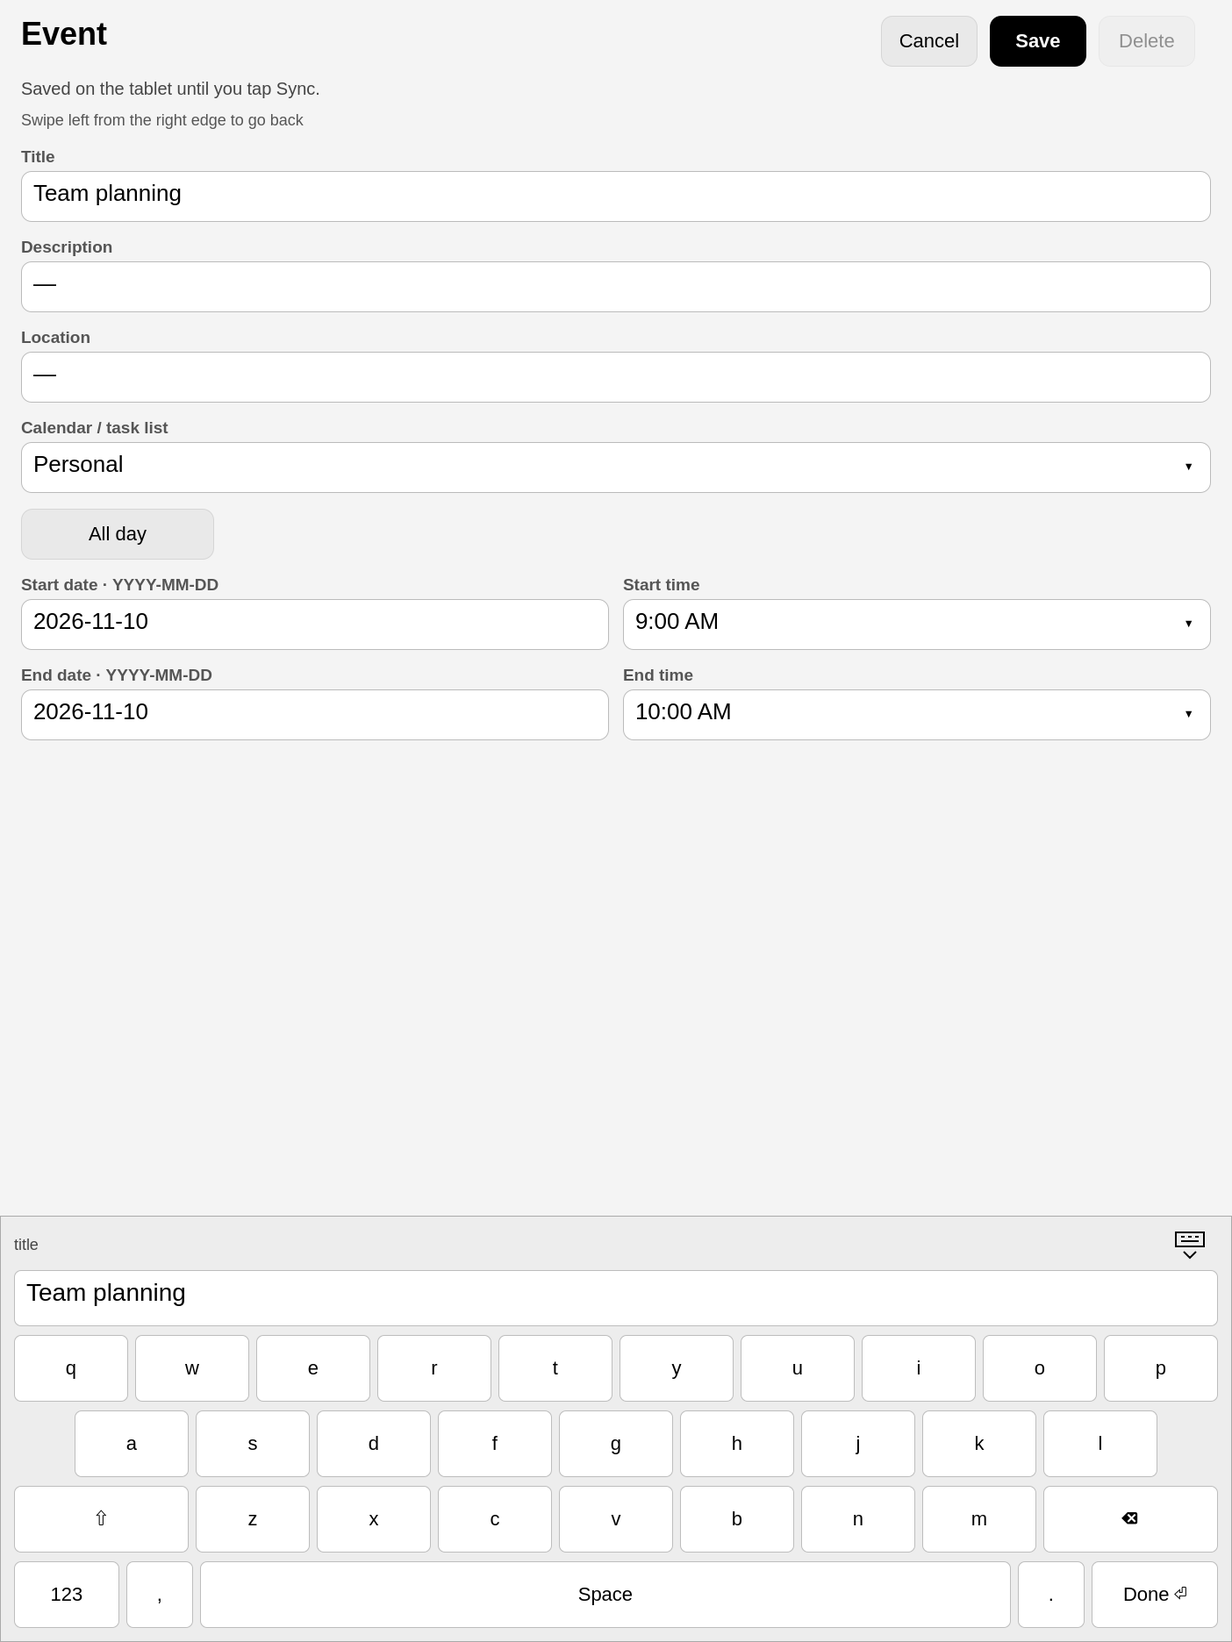
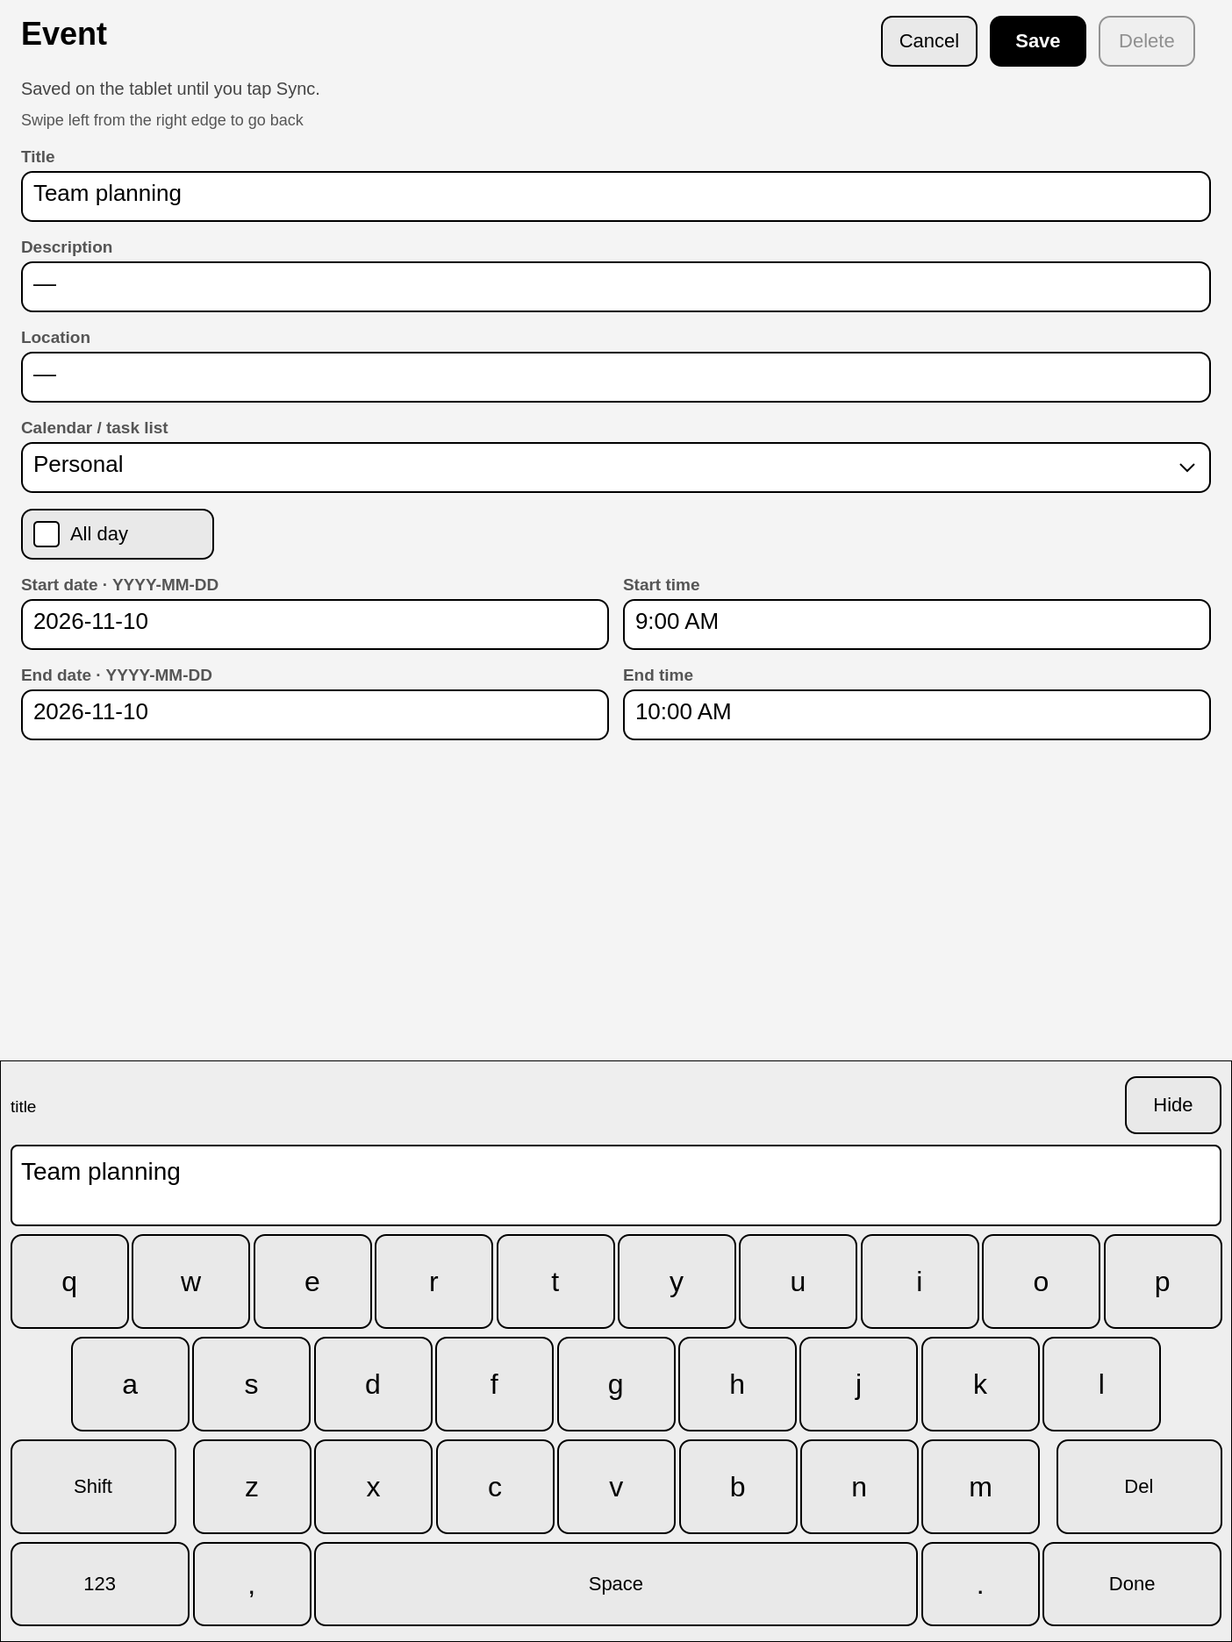
Fix tablet keyboard layout, date entry, and dismissal

diff --git a/qml/TouchKeyboard.qml b/qml/TouchKeyboard.qml
@@ -1,71 +1,58 @@
 // SPDX-License-Identifier: GPL-3.0-only
-// Copyright (C) 2026 remarkable2-nextcloudCalendar contributors
 import QtQuick
-
 Rectangle {
     id:keyboard
-    property string value: ""
-    property string label: ""
-    property bool secret: false
-    property bool shift: false
-    property bool symbols: false
-    property bool moreSymbols: false
-    readonly property real keyWidth:(width-32-9*8)/10
+    property string value:""
+    property string label:""
+    property bool secret:false
+    property bool shift:false
+    property bool symbols:false
+    property bool extraSymbols:false
+    readonly property real letterWidth:(width-24-9*4)/10
     signal edited(string value)
     signal done
-    width:parent.width;height:rows.height+32;color:"#ededed";border.color:"#aaaaaa"
-    function type(value) {
-        var position=input.selectionStart
-        if(input.selectionEnd>position){input.remove(position,input.selectionEnd);input.insert(position,value)}
-        else input.insert(input.cursorPosition,value)
-        edited(input.text)
-    }
-    function erase() {
-        if(input.selectionEnd>input.selectionStart)input.remove(input.selectionStart,input.selectionEnd)
-        else if(input.cursorPosition>0)input.remove(input.cursorPosition-1,input.cursorPosition)
-        edited(input.text)
-    }
-    component Key:Action {objectName:"key_"+label;height:76;radius:8;color:pressed?"#cccccc":"white";border.color:"#bdbdbd"}
+    width:parent.width;height:rows.height+36;color:"#eeeeee";border.color:"black"
+    function type(value){var position=input.selectionStart;if(input.selectionEnd>position){input.remove(position,input.selectionEnd);input.insert(position,value)}else input.insert(input.cursorPosition,value);edited(input.text)}
+    function erase(){if(input.selectionEnd>input.selectionStart)input.remove(input.selectionStart,input.selectionEnd);else if(input.cursorPosition>0)input.remove(input.cursorPosition-1,input.cursorPosition);edited(input.text)}
+    onVisibleChanged:if(visible&&Qt.inputMethod)Qt.inputMethod.hide()
     MouseArea {anchors.fill:parent}
     Column {
-        id:rows;x:16;y:16;width:parent.width-32;spacing:10
-        Item {
-            width:parent.width;height:36
-            Text {anchors.verticalCenter:parent.verticalCenter;text:keyboard.label;font.pixelSize:18;color:"#444444"}
-            Item {
-                objectName:"hideKeyboardButton";anchors.right:parent.right;width:64;height:36
-                Canvas {
-                    anchors.centerIn:parent;width:40;height:34
-                    onPaint:{var c=getContext("2d");c.reset();c.strokeStyle="black";c.lineWidth=2;c.beginPath();c.rect(4,2,32,16);c.moveTo(10,7);c.lineTo(14,7);c.moveTo(18,7);c.lineTo(22,7);c.moveTo(26,7);c.lineTo(30,7);c.moveTo(10,12);c.lineTo(30,12);c.moveTo(13,24);c.lineTo(20,31);c.lineTo(27,24);c.stroke()}
-                }
-                MouseArea {anchors.fill:parent;onClicked:keyboard.done()}
+        id:rows;x:12;y:18;width:parent.width-24;spacing:9
+        Item {width:parent.width;height:69
+            Text {anchors.verticalCenter:parent.verticalCenter;width:parent.width-340;text:keyboard.label;font.pixelSize:19;color:"black";elide:Text.ElideRight}
+            Row {anchors.right:parent.right;spacing:8
+                Action {objectName:"hideKeyboardButton";width:110;height:66;label:"Hide";onTriggered:keyboard.done()}
             }
         }
-        Rectangle {width:parent.width;height:64;radius:8;color:"white";border.color:"#bdbdbd"
-            TextInput {id:input;objectName:"keyboardInput";x:14;y:10;width:parent.width-28;height:44;font.pixelSize:28;clip:true;selectByMouse:true;text:keyboard.value;echoMode:keyboard.secret?TextInput.Password:TextInput.Normal;onTextEdited:keyboard.edited(text)}
+        Rectangle {width:parent.width;height:93;radius:8;color:"white";border.color:"black";border.width:2
+            TextInput {id:input;objectName:"keyboardInput";x:12;y:15;width:parent.width-24;height:63;font.pixelSize:28;clip:true;selectByMouse:true;activeFocusOnPress:false;text:keyboard.value;echoMode:keyboard.secret?TextInput.Password:TextInput.Normal;onTextEdited:keyboard.edited(text);onActiveFocusChanged:if(activeFocus&&Qt.inputMethod)Qt.inputMethod.hide()}
         }
         Repeater {
-            model:keyboard.symbols?(keyboard.moreSymbols?["[]{}#%^*+=","_\\|~<>€£¥"]:["1234567890","-/:;()$&@"]):["qwertyuiop","asdfghjkl"]
-            delegate:Row {
+            model:keyboard.symbols?(keyboard.extraSymbols?["[]{}#%^*+=","_\\|~<>€£¥",".,?!'\":"]:["1234567890","@#$%&-+()","*\"':;!?"]):["qwertyuiop","asdfghjkl","zxcvbnm"]
+            delegate:Item {
                 required property string modelData
-                property string keys:modelData
-                x:(rows.width-(keys.length*keyboard.keyWidth+(keys.length-1)*8))/2
-                spacing:8
-                Repeater {model:parent.keys.length;delegate:Key {required property int index;property string key:parent.keys.charAt(index);width:keyboard.keyWidth;label:keyboard.shift?key.toUpperCase():key;onTriggered:keyboard.type(label)}}
+                required property int index
+                width:rows.width;height:108
+                Row {
+                    anchors.horizontalCenter:parent.horizontalCenter;spacing:4
+                    Repeater {model:parent.parent.modelData.length;delegate:Action {
+                        required property int index
+                        property string key:parent.parent.modelData.charAt(index)
+                        objectName:"key_"+label;width:keyboard.letterWidth;height:108;fontSize:32
+                        label:!keyboard.symbols&&keyboard.shift?key.toUpperCase():key
+                        onTriggered:keyboard.type(label)
+                    }}
+                }
+                Action {objectName:"shiftKey";visible:index===2;anchors.left:parent.left;width:keyboard.letterWidth*1.4;height:108;label:keyboard.symbols?(keyboard.extraSymbols?"123":"#+="):(keyboard.shift?"SHIFT":"Shift");selected:!keyboard.symbols&&keyboard.shift;onTriggered:{if(keyboard.symbols)keyboard.extraSymbols=!keyboard.extraSymbols;else keyboard.shift=!keyboard.shift}}
+                Action {objectName:"deleteKey";visible:index===2;anchors.right:parent.right;width:keyboard.letterWidth*1.4;height:108;label:"Del";onTriggered:keyboard.erase()}
             }
         }
-        Row {
-            width:parent.width;spacing:8
-            Key {width:(rows.width-7*keyboard.keyWidth-8*8)/2;label:keyboard.symbols?(keyboard.moreSymbols?"123":"#+="):(keyboard.shift?"⇧ ON":"⇧");onTriggered:{if(keyboard.symbols)keyboard.moreSymbols=!keyboard.moreSymbols;else keyboard.shift=!keyboard.shift}}
-            Repeater {model:keyboard.symbols?[".",",","?","!","'","\"","="]:["z","x","c","v","b","n","m"];delegate:Key {required property string modelData;width:keyboard.keyWidth;label:keyboard.shift?modelData.toUpperCase():modelData;onTriggered:keyboard.type(label)}}
-            Key {width:(rows.width-7*keyboard.keyWidth-8*8)/2;label:"⌫";onTriggered:keyboard.erase()}
-        }
-        Row {width:parent.width;spacing:8
-            Key {width:120;label:keyboard.symbols?"ABC":"123";onTriggered:keyboard.symbols=!keyboard.symbols}
-            Key {width:76;label:",";onTriggered:keyboard.type(",")}
-            Key {width:Math.max(110,rows.width-448);label:"Space";onTriggered:keyboard.type(" ")}
-            Key {width:76;label:".";onTriggered:keyboard.type(".")}
-            Key {width:144;label:"Done ⏎";onTriggered:keyboard.done()}
+        Row {spacing:4
+            Action {objectName:"symbolModeButton";width:keyboard.letterWidth*1.5+2;height:96;label:keyboard.symbols?"ABC":"123";onTriggered:{keyboard.symbols=!keyboard.symbols;keyboard.extraSymbols=false}}
+            Action {width:keyboard.letterWidth;height:96;fontSize:32;label:",";onTriggered:keyboard.type(",")}
+            Action {objectName:"spaceKey";width:keyboard.letterWidth*5+16;height:96;label:"Space";onTriggered:keyboard.type(" ")}
+            Action {width:keyboard.letterWidth;height:96;fontSize:32;label:".";onTriggered:keyboard.type(".")}
+            Action {objectName:"doneKey";width:keyboard.letterWidth*1.5+2;height:96;label:"Done";onTriggered:keyboard.done()}
         }
     }
 }

diff --git a/qml/EditorView.qml b/qml/EditorView.qml
@@ -29,7 +29,7 @@ Rectangle {
                 width:form.width;label:modelData.charAt(0).toUpperCase()+modelData.slice(1);value:page.draft?page.draft[modelData]:"";editable:page.draft&&page.draft.writable;onActivated:app.field=modelData
             }}
             Field {id:calendar;objectName:"calendarDropdown";width:form.width;label:"Calendar / task list";value:page.draft?page.draft.calendar_name:"";dropdown:page.draft&&page.draft.id==="";editable:page.draft&&page.draft.id==="";onActivated:app.chooseCalendar(calendar)}
-            Action {visible:page.draft&&page.draft.kind==="VEVENT";width:220;label:page.draft&&page.draft.all_day?"✓ All day":"All day";enabled:page.draft&&page.draft.writable;onTriggered:{var all=!page.draft.all_day;app.setField("all_day",all);app.setField("start",all?page.draft.start.slice(0,10):page.draft.start.slice(0,10)+"T09:00");app.setField("end",all?app.iso(app.add(app.date(page.draft.start),1)):page.draft.start.slice(0,10)+"T10:00")}}
+            Action {visible:page.draft&&page.draft.kind==="VEVENT";width:220;checkable:true;checked:page.draft&&page.draft.all_day;label:"All day";enabled:page.draft&&page.draft.writable;onTriggered:{var all=!page.draft.all_day;app.setField("all_day",all);app.setField("start",all?page.draft.start.slice(0,10):page.draft.start.slice(0,10)+"T09:00");app.setField("end",all?app.iso(app.add(app.date(page.draft.start),1)):page.draft.start.slice(0,10)+"T10:00")}}
             Repeater {model:page.draft&&page.draft.kind==="VEVENT"?["start","end"]:[];delegate:Row {
                 required property string modelData
                 width:form.width;spacing:16
@@ -41,7 +41,7 @@ Rectangle {
                 width:form.width;label:(modelData==="scheduled"?"Scheduled for":"Due by")+" · YYYY-MM-DD or YYYY-MM-DDTHH:MM (24h)";value:page.draft?page.draft[modelData]||"":"";editable:page.draft&&page.draft.writable;onActivated:app.field=modelData
             }}
             Field {id:priority;visible:page.draft&&page.draft.kind==="VTODO";width:form.width;label:"Priority";value:page.draft?app.priorityLabel(page.draft.priority):"None";dropdown:true;editable:page.draft&&page.draft.writable;onActivated:app.choosePriority(priority)}
-            Action {visible:page.draft&&page.draft.kind==="VTODO";width:220;label:page.draft&&page.draft.completed?"✓ Completed":"Mark completed";enabled:page.draft&&page.draft.writable;onTriggered:app.setField("completed",!page.draft.completed)}
+            Action {visible:page.draft&&page.draft.kind==="VTODO";width:240;checkable:true;checked:!!(page.draft&&page.draft.completed);label:"Completed";enabled:page.draft&&page.draft.writable;onTriggered:app.setField("completed",!page.draft.completed)}
         }
     }
 }

diff --git a/qml/TasksView.qml b/qml/TasksView.qml
@@ -9,9 +9,9 @@ Item {
     Item {
         id:toolbar;x:20;y:18;width:parent.width-40;height:116
         Text {text:"All tasks";font.pixelSize:34;font.bold:true;color:"black"}
-        Action {id:sort;objectName:"taskSortButton";anchors.right:parent.right;width:310;label:"Sort: "+app.sortOptions.filter(function(o){return o.value===app.taskSort})[0].label+" ▾";onTriggered:app.chooseSort(sort)}
+        Action {id:sort;dropdown:true;objectName:"taskSortButton";anchors.right:parent.right;width:310;label:"Sort: "+app.sortOptions.filter(function(o){return o.value===app.taskSort})[0].label;onTriggered:app.chooseSort(sort)}
         Row {y:64;spacing:12
-            Action {id:lists;width:300;label:app.taskListName()+" ▾";onTriggered:app.chooseTaskList(lists)}
+            Action {id:lists;dropdown:true;width:300;label:app.taskListName();onTriggered:app.chooseTaskList(lists)}
             Action {width:220;label:app.showCompleted?"Hide completed":"Show completed";onTriggered:app.showCompleted=!app.showCompleted}
         }
     }
@@ -29,9 +29,8 @@ Item {
             }
             Rectangle {
                 width:parent.width;height:Math.max(112,title.implicitHeight+metadata.implicitHeight+32);radius:16;color:"white";border.color:"#cccccc"
-                Rectangle {
-                    x:22;y:30;width:40;height:40;radius:6;border.color:"black";border.width:2;color:modelData.completed?"black":"white"
-                    Text {anchors.centerIn:parent;text:modelData.completed?"✓":"";color:"white";font.pixelSize:29}
+                CheckMark {
+                    x:22;y:30;width:40;height:40;checked:!!modelData.completed
                     MouseArea {anchors.fill:parent;enabled:modelData.writable&&!app.status.busy;onClicked:app.toggleTask(modelData)}
                 }
                 Text {id:title;x:88;y:18;width:parent.width-250;text:modelData.title;font.pixelSize:28;font.bold:true;font.strikeout:!!modelData.completed;wrapMode:Text.Wrap;color:"black"}

diff --git a/qml/Action.qml b/qml/Action.qml
@@ -6,13 +6,19 @@ Rectangle {
     id: button
     property string label
     property bool selected: false
+    property bool dropdown: false
+    property bool checkable: false
+    property bool checked: false
+    property real fontSize: 22
     readonly property bool pressed: tap.pressed
     signal triggered
     width: 110; height: 58
     radius: 13
     color: selected ? "black" : "#e9e9e9"
-    border.color: selected ? "black" : "#d5d5d5"; border.width: 1
+    border.color: "black"; border.width: 2
     opacity: enabled ? 1 : 0.4
-    Text { anchors.centerIn: parent; width:parent.width-18; horizontalAlignment:Text.AlignHCenter; elide:Text.ElideRight; text: button.label; color: button.selected ? "white" : "black"; font.pixelSize: 22; font.bold:button.selected }
+    CheckMark {visible:button.checkable;x:14;anchors.verticalCenter:parent.verticalCenter;checked:button.checked}
+    Text { x:button.checkable?56:9; anchors.verticalCenter:parent.verticalCenter; width:parent.width-x-(button.dropdown?44:9); horizontalAlignment:button.checkable?Text.AlignLeft:Text.AlignHCenter; elide:Text.ElideRight; text:button.label;color:button.selected?"white":"black";font.pixelSize:button.fontSize;font.bold:button.selected }
+    Canvas {visible:button.dropdown;anchors.right:parent.right;anchors.rightMargin:14;anchors.verticalCenter:parent.verticalCenter;width:18;height:12;onPaint:{var c=getContext("2d");c.reset();c.strokeStyle=button.selected?"white":"black";c.lineWidth=2;c.beginPath();c.moveTo(1,2);c.lineTo(9,10);c.lineTo(17,2);c.stroke()}}
     MouseArea { id:tap; anchors.fill: parent; onClicked: button.triggered() }
 }

diff --git a/tests/qml/tst_Calendar.qml b/tests/qml/tst_Calendar.qml
@@ -297,12 +297,16 @@ TestCase {
         app.closeSettings()
         compare(app.connectionDraft.app_password,"")
     }
-    function test_stock_style_keyboard_letters_and_numbers() {
+    function test_original_keyboard_letters_and_numbers() {
         app.newItem();wait(30)
         var keyboard=findChild(app,"touchKeyboard")
+        compare(keyboard.height,663)
+        compare(findChild(keyboard,"key_q").height,108)
+        compare(findChild(keyboard,"key_q").width,findChild(keyboard,"key_a").width)
+        compare(findChild(keyboard,"key_q").width,findChild(keyboard,"key_z").width)
         mouseClick(findChild(keyboard,"key_q"),20,20)
         compare(app.draft.title,"q")
-        mouseClick(findChild(keyboard,"key_123"),20,20);wait(10)
+        mouseClick(findChild(keyboard,"symbolModeButton"),20,20);wait(10)
         mouseClick(findChild(keyboard,"key_1"),20,20)
         compare(app.draft.title,"q1")
         keyboard.symbols=false
@@ -327,5 +331,13 @@ TestCase {
         app.field="date.start";compare(app.editValue(),"2026-0")
         app.editText("2026-02-30");app.save(false);compare(submitted,null)
         app.cancelEdit()
+    }
+    function test_outside_tap_keeps_keyboard_open() {
+        app.newItem();app.editText("Keep this title");wait(20)
+        mouseClick(app,300,100)
+        compare(app.field,"title")
+        verify(findChild(app,"touchKeyboard").visible)
+        compare(app.draft.title,"Keep this title")
+        compare(submitted,null)
     }
 }

diff --git a/qml/Field.qml b/qml/Field.qml
@@ -13,9 +13,9 @@ Column {
     Text { text: field.label; font.pixelSize: 19; font.bold: true; color: "#555555" }
     Rectangle {
         width: field.width; height: Math.max(58, content.implicitHeight + 20)
-        radius:12;color: "white"; border.color: "#bbbbbb"
+        radius:13;color: "white"; border.color: "black";border.width:2
         Text { id: content; x: 14; y: 10; width: parent.width - (field.dropdown?64:28); text: field.value || "—"; font.pixelSize: 26; color: "black"; wrapMode: Text.Wrap }
-        Text {visible:field.dropdown;anchors.right:parent.right;anchors.rightMargin:18;anchors.verticalCenter:parent.verticalCenter;text:"▾";font.pixelSize:24;color:"black"}
+        Canvas {visible:field.dropdown;anchors.right:parent.right;anchors.rightMargin:18;anchors.verticalCenter:parent.verticalCenter;width:18;height:12;onPaint:{var c=getContext("2d");c.reset();c.strokeStyle="black";c.lineWidth=2;c.beginPath();c.moveTo(1,2);c.lineTo(9,10);c.lineTo(17,2);c.stroke()}}
         MouseArea { anchors.fill: parent; enabled: field.editable; onClicked: field.activated() }
     }
 }

diff --git a/qml/SettingsView.qml b/qml/SettingsView.qml
@@ -31,7 +31,7 @@ Rectangle {
             Text {text:"Visible calendars & task lists";font.pixelSize:28;font.bold:true;color:"black"}
             Repeater {model:app.status.collections;delegate:Action {
                 required property var modelData
-                width:form.width;label:(modelData.enabled?"✓  ":"○  ")+modelData.name+(modelData.writable?"":" · read-only");enabled:!app.status.busy
+                width:form.width;checkable:true;checked:modelData.enabled;label:modelData.name+(modelData.writable?"":" · read-only");enabled:!app.status.busy
                 onTriggered:app.request("POST","/collections",{id:modelData.id,enabled:!modelData.enabled},function(){app.refresh()})
             }}
             Text {text:"Pending changes: "+app.status.pending.length;font.pixelSize:28;font.bold:true;color:"black"}

diff --git a/qml/Main.qml b/qml/Main.qml
@@ -20,6 +20,16 @@ Rectangle {
     property bool connectionSaving: false
     property var draft: null
     property string field: ""
+    function hideNativeKeyboard() {
+        if(Qt.inputMethod)Qt.inputMethod.hide()
+        var ancestor=root.parent
+        for(var i=0;ancestor&&i<20;i++,ancestor=ancestor.parent) {
+            if(typeof ancestor.virtualKeyboardRef!=="undefined"&&ancestor.virtualKeyboardRef)
+                ancestor.virtualKeyboardRef.active=false
+        }
+        root.forceActiveFocus()
+    }
+    onFieldChanged:if(field!=="")hideNativeKeyboard()
     property var dateFields: ({})
     property bool showCompleted: false
     property string taskList: ""

diff --git a/qml/CheckMark.qml b/qml/CheckMark.qml
@@ -1,0 +1,13 @@
+// SPDX-License-Identifier: GPL-3.0-only
+import QtQuick
+Rectangle {
+    id:mark
+    property bool checked:false
+    width:30;height:30;radius:5;color:checked?"black":"white";border.color:"black";border.width:2
+    Canvas {
+        id:checkCanvas
+        anchors.fill:parent
+        onPaint:{var c=getContext("2d");c.reset();if(!mark.checked)return;c.strokeStyle="white";c.lineWidth=3;c.lineCap="round";c.beginPath();c.moveTo(width*0.22,height*0.52);c.lineTo(width*0.43,height*0.73);c.lineTo(width*0.79,height*0.28);c.stroke()}
+        Connections {target:mark;function onCheckedChanged(){checkCanvas.requestPaint()}}
+    }
+}

diff --git a/README.md b/README.md
@@ -26,11 +26,11 @@ backend and a grayscale Qt Quick interface.
 - In-app server URL, username, and masked app-password entry. Each installation
   uses its own credentials and cache; no server or account is preconfigured.
 - Rounded monochrome controls, a calendar/Nextcloud launcher icon, and a custom
-  keyboard styled after the tablet's stock QWERTY keyboard.
+  US mobile QWERTY keyboard with equal-sized letter keys.
 
 Recurring events are viewable, including ordinary detached exceptions, but
-recurring items and meeting invitations are read-only. There is no handwriting
-entry, guest management, automatic background sync, or event drag-to-reschedule.
+recurring items and meeting invitations are read-only. There is no guest
+management, automatic background sync, or event drag-to-reschedule.
 See [limitations](docs/DEVELOPMENT.md#limitations).
 
 ## Requirements
@@ -79,7 +79,7 @@ then close and reopen the app. The 12/24-hour display toggle is available in Set
 
 - Swipe left/right to change the day, week, or month.
 - Swipe vertically to scroll the hourly schedule.
-- Use the keyboard icon with a down arrow to hide the keyboard. Partial date input
+- Tap Hide or Done to dismiss the keyboard. Partial date input
   is retained while editing; invalid dates must be corrected before saving.
 - Tap an event, day heading, or month date to open it.
 - Press and hold an empty time slot to create an event there; tap Save to keep it.

diff --git a/docs/DEVELOPMENT.md b/docs/DEVELOPMENT.md
@@ -75,7 +75,7 @@ a binary under the GPL.
 
 ## Limitations
 
-- Portrait grayscale UI; no event drag/resize or handwriting entry.
+- Portrait grayscale UI; no event drag/resize.
 - Manual sync; no always-on scheduled polling of Nextcloud.
 - Recurring resources and invitations are read-only. RDATE-only recurrence,
   THISANDFUTURE exceptions, embedded custom timezone definitions and unusual
